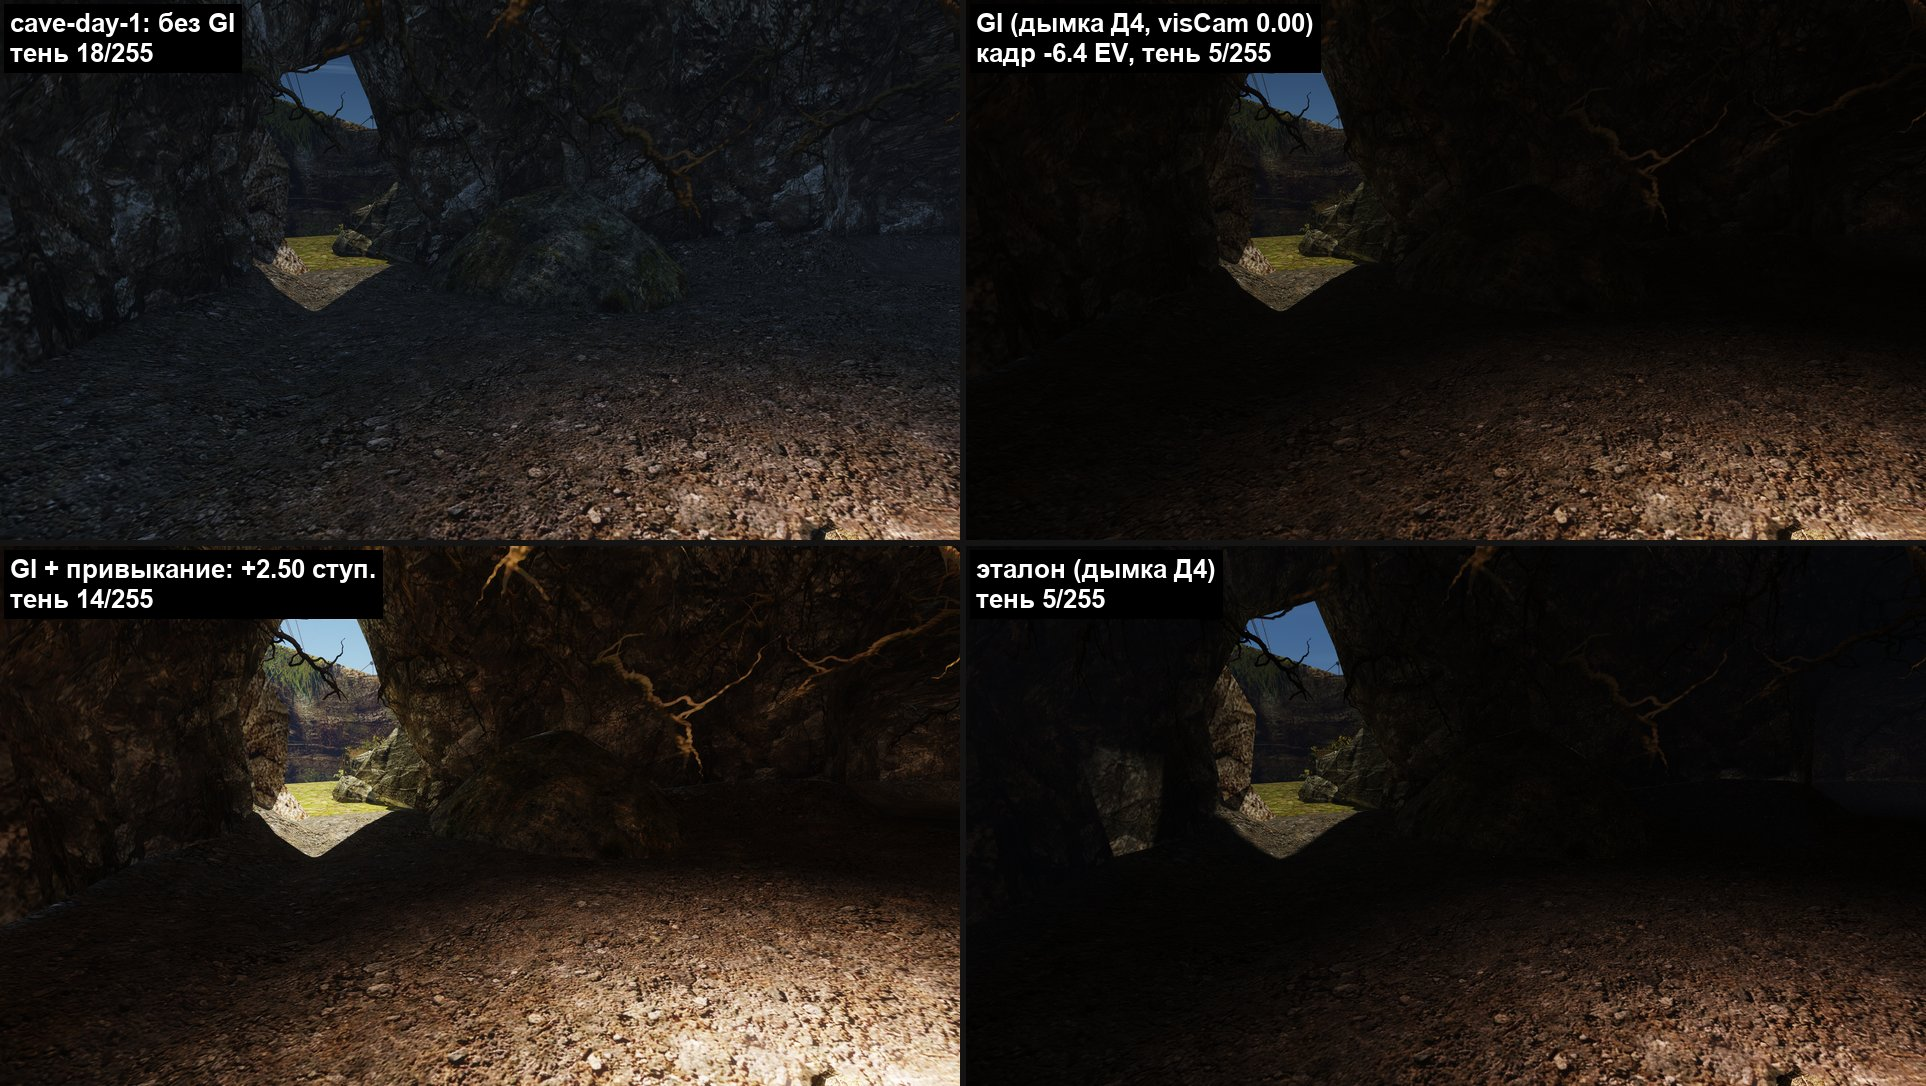
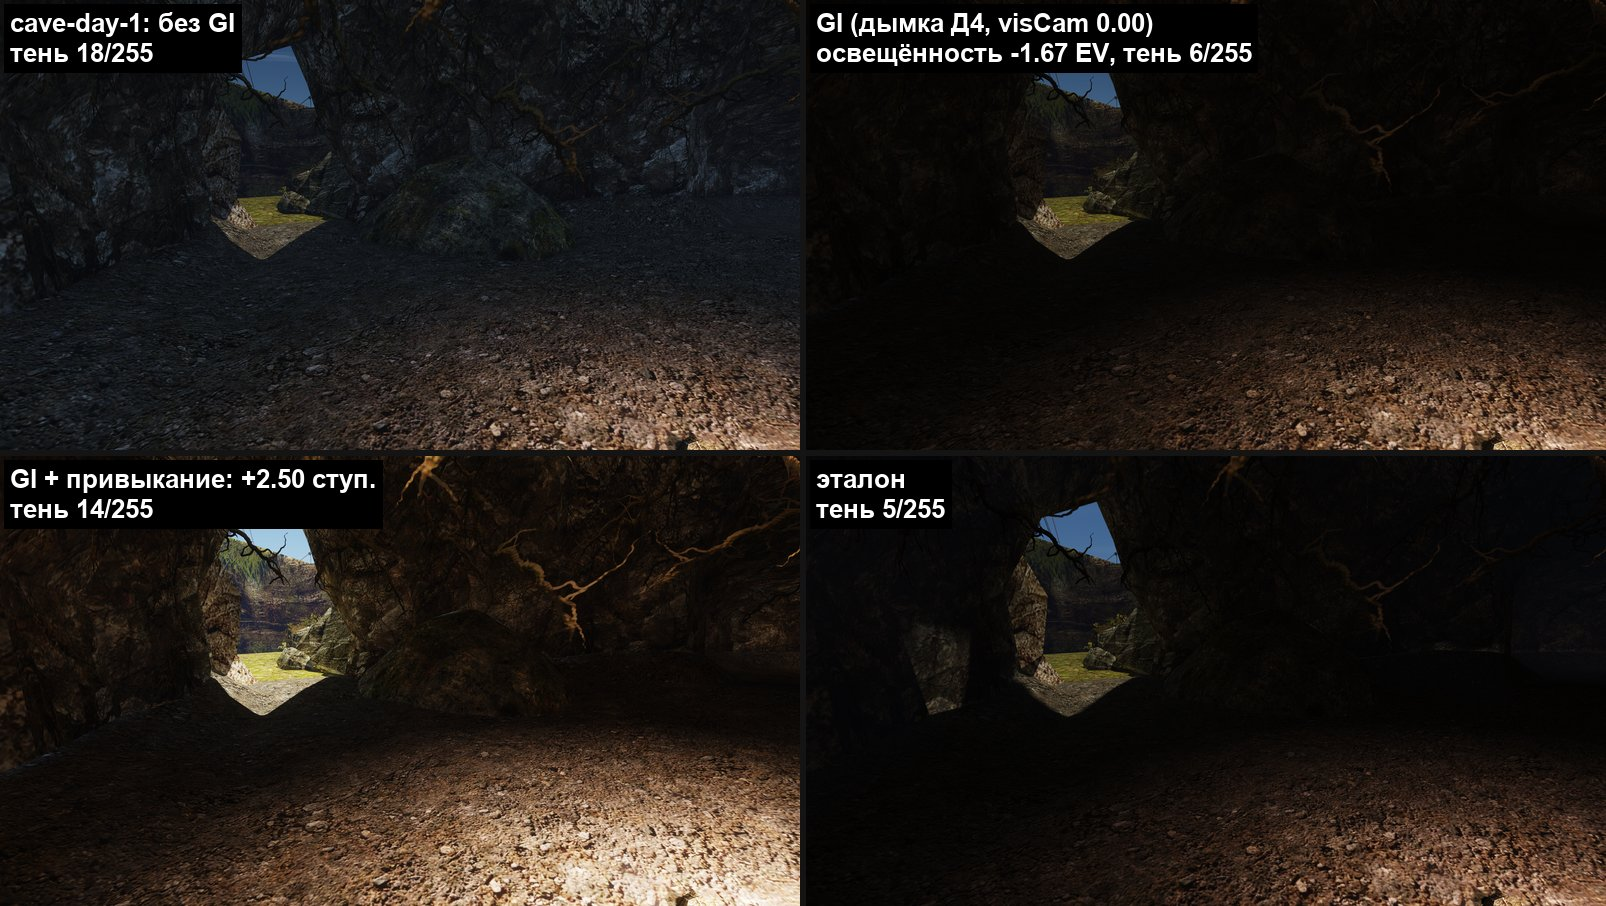
rt-revisit step 2, round 4: checks, the fog's cost, the Mac run, clips-4; the sheets anew

diff --git a/reports/render-features/2026-11-08-rt-revisit/step-2-shade.md b/reports/render-features/2026-11-08-rt-revisit/step-2-shade.md
@@ -748,3 +748,35 @@ Mac, Metal, без GI, 800×600: `BENCH_HOST=local scripts/bench.sh veil.bench` 
 
   На повороте в лесу размах при ⅔ — 0,98 ступени (при полной — 0,21, потому что полный множитель упёрт в потолок 2,5), у устья — 1,58 против 1,13. Поля поднимаются меньше (+0,6), но дыхание сильнее.
 - **Замер «по месту» по пробам GI у героя** (экспонометр падающего света): из журналов его не получить — в них нет облучённости проб. Нужен свой проход: поиск проб в хэше вокруг героя, как в `probe_ambient.frag`, и их облучённость по шести направлениям. Это один маленький вычислительный проход (оценка 0,01–0,02 мс) плюс калибровка «облучённость → ключ» по рынку и полям. От взгляда и от теней в кадре он не зависит; поля в полдень и рынок под солнцем дали бы один уровень.
+
+### Часть Г. Проверки, цена, Mac, клипы
+
+- **`gi-eye-check.sh`** — ok без пересохранения базы: 77 % клеток, помещения 80 % (пороги 76 / 80), горячие клетки в пределах (`cave-day-2` 2,06 при пределе 2,10, `forest-2` 1,37 при 1,52). Отклик 67 мс, поворот 1,4 %, затухание 967 мс. Сторож привыкания, ожидания под новые ключи (`cave-day-1` 2,50 ±0,3): рынок 0,03 ступени, `cave-day-1` 2,50, без GI журнала нет.
+- **Цена дымки** (проверка, привыкание выключено):
+
+  | Место | `Fog-sky` (круг 3) | `Fog` (круг 2 / круг 3) | вместе против круга 2 |
+  |---|---|---|---|
+  | market | 0,012 (0,026) | 0,112 (0,097 / 0,118) | +0,027 |
+  | harbour | 0,011 (0,026) | 0,113 (0,101 / 0,124) | +0,024 |
+  | forest | 0,044 (0,064) | 0,139 (0,105 / 0,132) | **+0,079** |
+  | interior | 0,012 (0,026) | 0,109 (0,088 / 0,101) | **+0,032** |
+  | combat | 0,010 (0,023) | 0,106 (0,098 / 0,117) | +0,018 |
+
+  Порог +0,03 мс держат три места из пяти; в помещении — на грани, в лесу — +0,079. Лес дорог дважды: альфа-тест крон в лучах `Fog-sky` (0,044 мс) и много затенённых отрезков в дымке — на каждом теперь две выборки таблицы. Весь GI 1,00–1,13 мс.
+- **Mac** (Metal, без GI, `veil.bench`): игра стартовала, 8 кадров, MSL собран для 203 шейдеров, 135 пайплайнов, отказов 0.
+- **Клипы** `clips-4/` (`/mnt/shared/gothic-ai/gi-eye/2026-11-12/clips-4/`, `.bench/gi-eye/2026-11-12/clips-4/`): все три прогона пересняты, потому что изменился проход в лес. Против `clips-3`:
+
+  | Клип | множитель, ступени | `visCam` | яркость × против GI | что изменилось |
+  |---|---|---|---|---|
+  | `interior-night`, `harbour-night`, `harbour-night-walk` | 0 | 0 / 1,00 / 0,57…0,99 | 1,00…1,03 | как прежде |
+  | `hut-day` | 0,6…2,5 | 0 | 1,3…2,8 | светлее у тёмного угла (освещённость: тёмные доски больше не тянут замер) |
+  | `forest-day` | 2,5 | 0,32…0,34 | 2,5…2,7 | синеватой дымки в глубине леса больше, чем в круге 3 (`visCam` 0,33 вместо 0,15) |
+  | `cave-day` | 1,4…2,5 | 0 | 1,7…2,7 | как в круге 3, без синевы; костёр множитель не двигает |
+  | `cave-night` | 0…0,71 | 0 | 1,0…1,3 | **при взгляде в тёмную стену множитель доходит до +0,71** (ночное ожидание — не больше +0,35) |
+  | `forest-walk` | 1,8…2,5 | 0,22…0,76 | 2,0…2,9 | камера больше не влетает в склон. В начале у ног героя видна **ровная серая плоскость с клетчатым краем** во всех трёх третях, и без GI тоже. Это предмет мира в ложбине у `PATH_67` (там застревал герой), а не камера; вода это под низким углом или грань без текстуры, по кадрам не выяснил |
+  | `cave-walk` | 0…2,5 | 0…0,97 | 1,0…2,6 | `visCam` у входа 0,97, в пещере 0 — дымка в пещере уходит по ходу, без скачков |
+  | `cave-mouth-turn` | 2,0…2,5 | 0 | 2,1…3,0 | дыхание чуть меньше (2,0…2,5 против 1,8…2,5) |
+  | `forest-turn` | 2,05…2,5 | 0,32…0,41 | 2,2…2,6 | `visCam` на повороте 0,32–0,41: в конусе над камерой меняются кроны по мере смены направлений |
+  | `market-day` | 0…0,78 | 0,89…0,91 | 1,00…1,38 | при повороте к затенённой стороне — до +0,78 (круг 3: +0,55): окно 50–95 % сильнее реагирует на тень в кадре |
+
+  Чёрных кадров нет, трети в синхроне. Рывки при мгновенных разворотах героя есть во всех третях.
